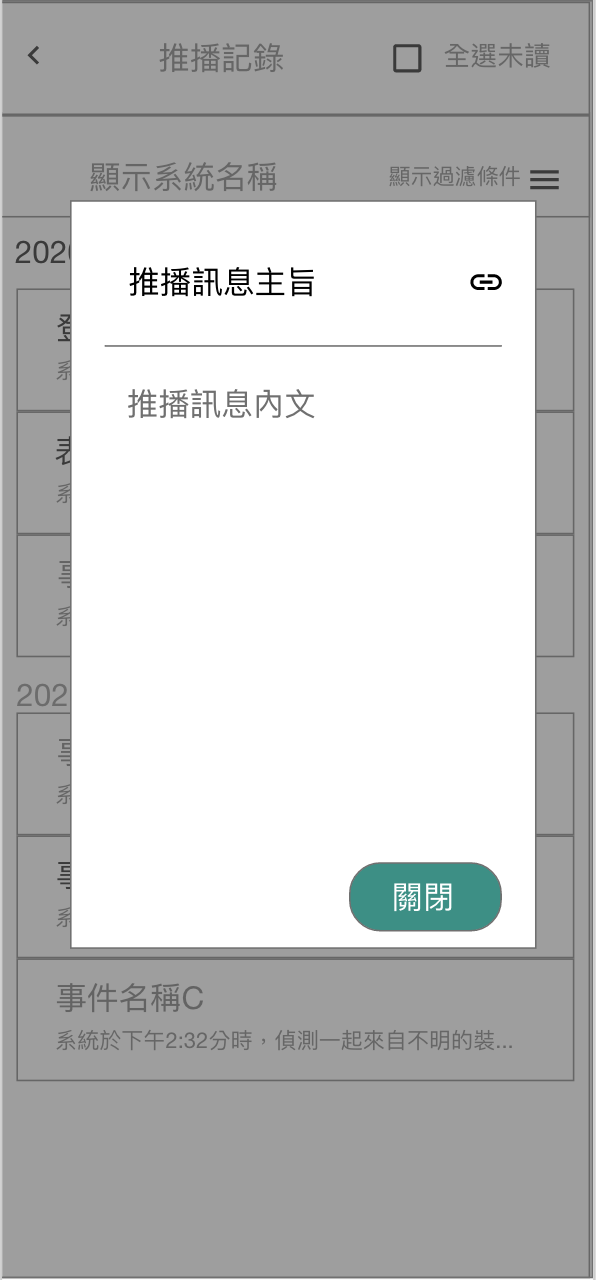
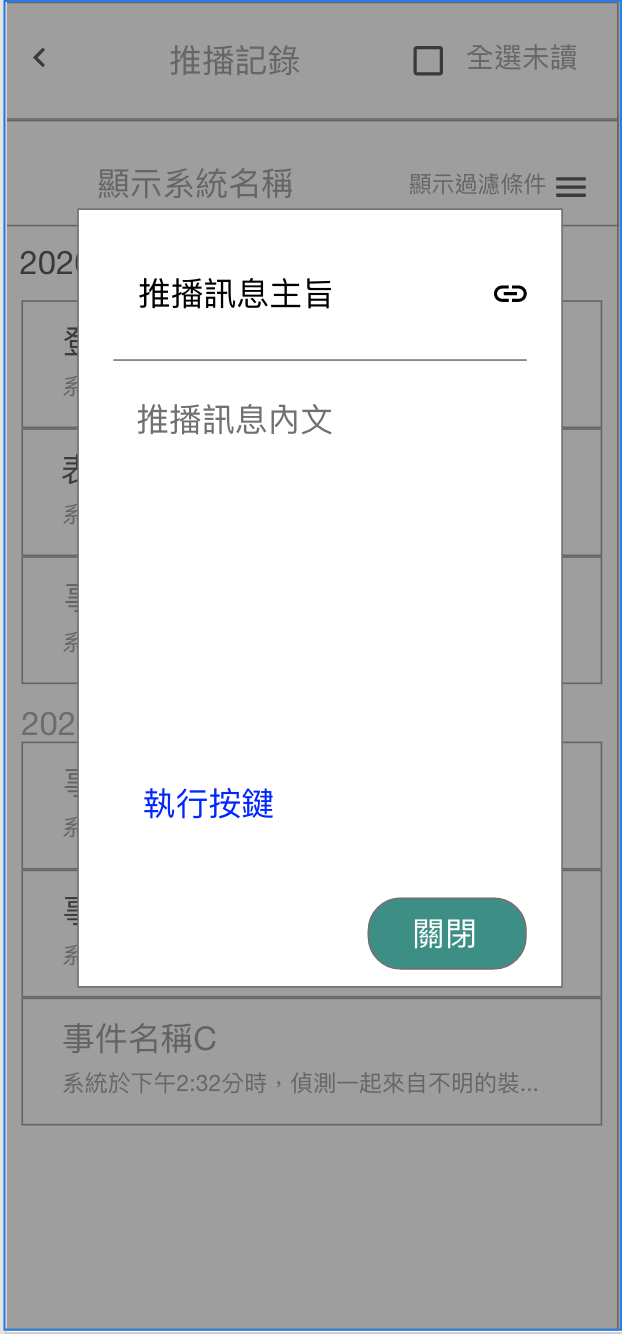
修改超連結UI及文字顯示

diff --git a/8.10.0/UPDATE/ITEM_2/MAE/notification_message.md b/8.10.0/UPDATE/ITEM_2/MAE/notification_message.md
@@ -17,7 +17,7 @@
       * 關閉訊息
     * 點擊遮罩處
       * 關閉訊息
-    * 點擊內文或ICON(`等UI/UX`)
+    * 點擊內文超連結(執行按鍵/加入行事曆/內含連結/開啟表單)
       * 啟動超連結(含google行事曆連結)/表單連結/按鍵連結
 * 表單畫面
     
